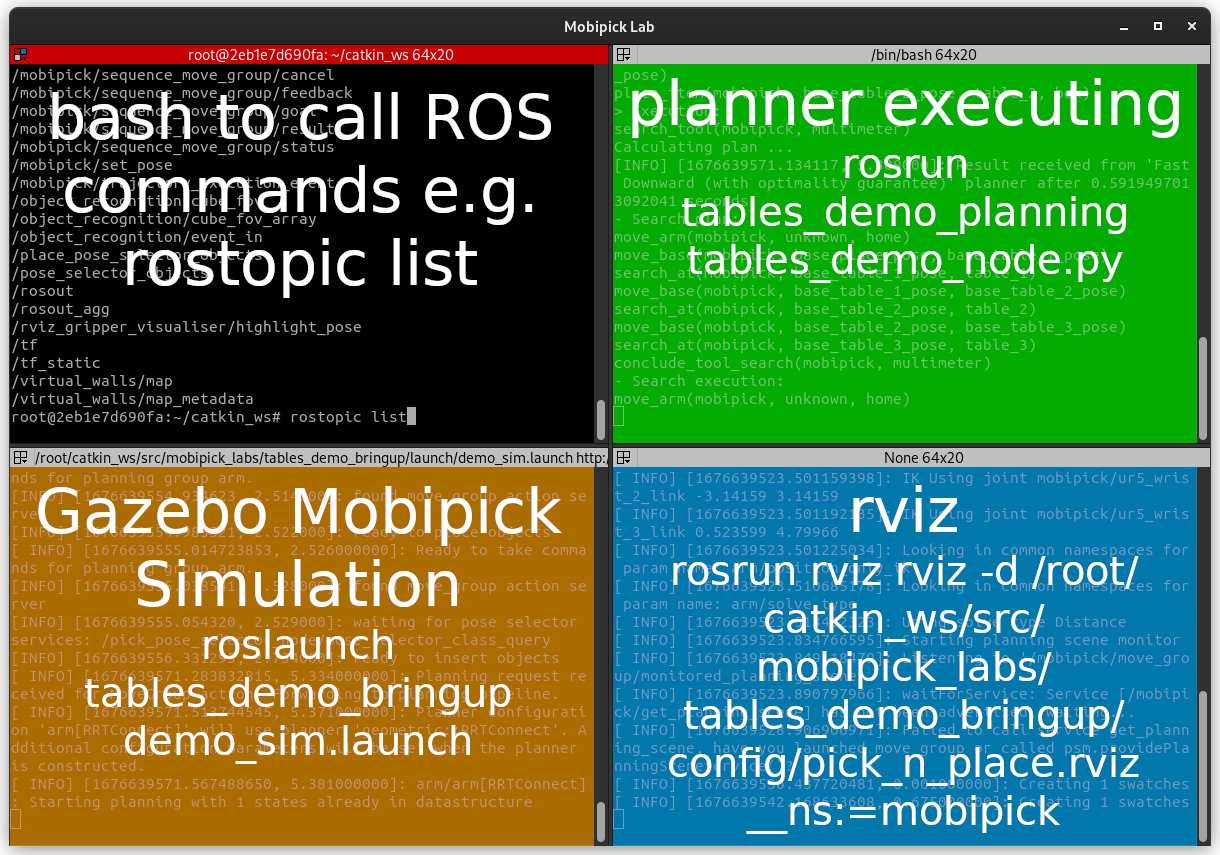
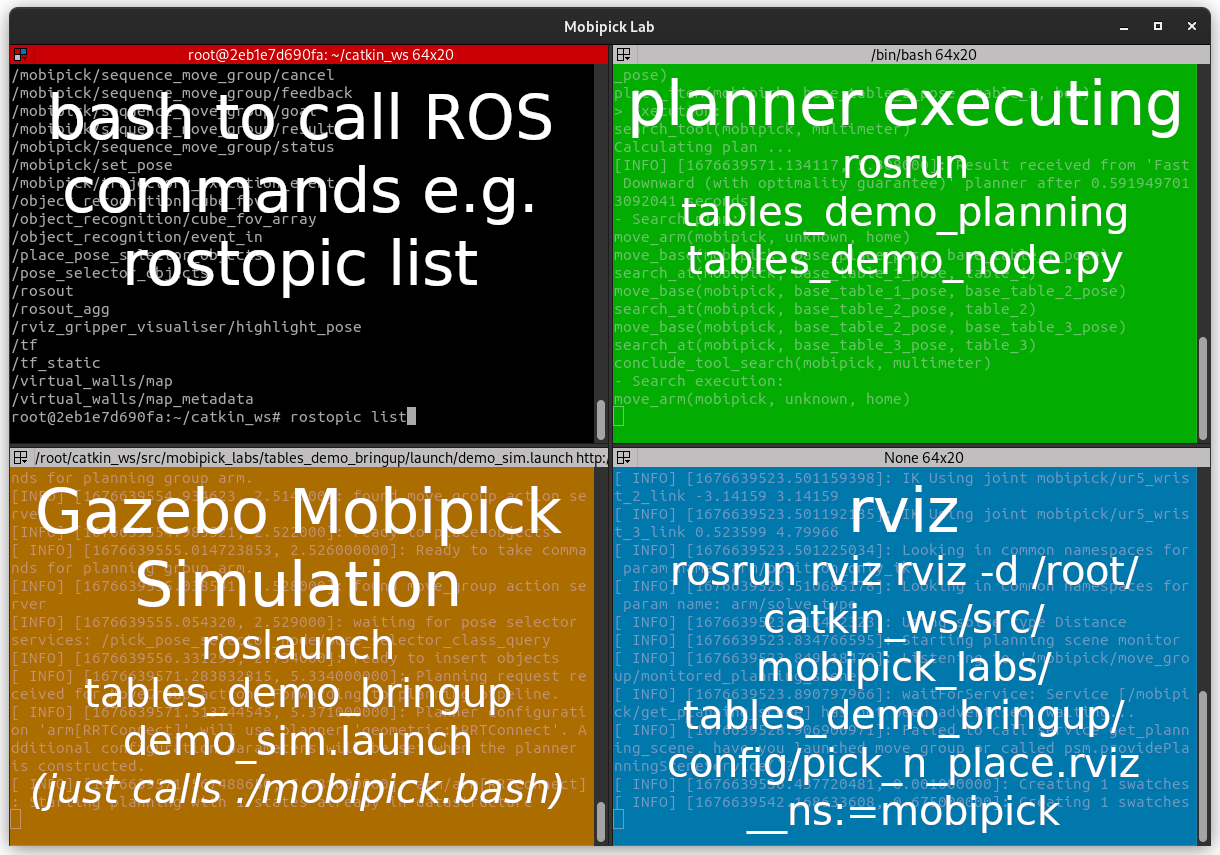
add note on running mobipick.bash

Changed region(s): [[0.0311, 0.9123, 0.4672, 0.9427]]

diff --git a/README.md b/README.md
@@ -5,9 +5,11 @@ Docker (compose) environment for the DFKI MobiPick lab (https://github.com/DFKI-
 Install docker (or mobi) and docker-compose, install [nvidia-docker2](https://docs.nvidia.com/datacenter/cloud-native/container-toolkit/nvidia-docker.html) if you have an nvidia graphics card.
 
 # Usage
-Just run `mobipick.bash` it will download all required container and start the mobipick-gazebo environment for the tables demo (see `command:` in `docker-compose.yml`).
+If you just want to run the simulation withou planning and without rviz `mobipick.bash`. It will download all required container and start the mobipick-gazebo environment for the tables demo (see `command:` in `docker-compose.yml`).
 
 To run custom ROS commands just prefix them with `./cmd.bash`. This starts a new docker container with your command connected to the ROScore of the mobipick-container instance.
+
+Take a look at the `terminator.conf` file if you are interested how it all works together. If you have a slow PC you might also want to increase the values of `sleep` times to give Gazebo some more time to startup the simulation before planning.
 
 ## Example Run
 ### Option 1: run everything at once in terminator
